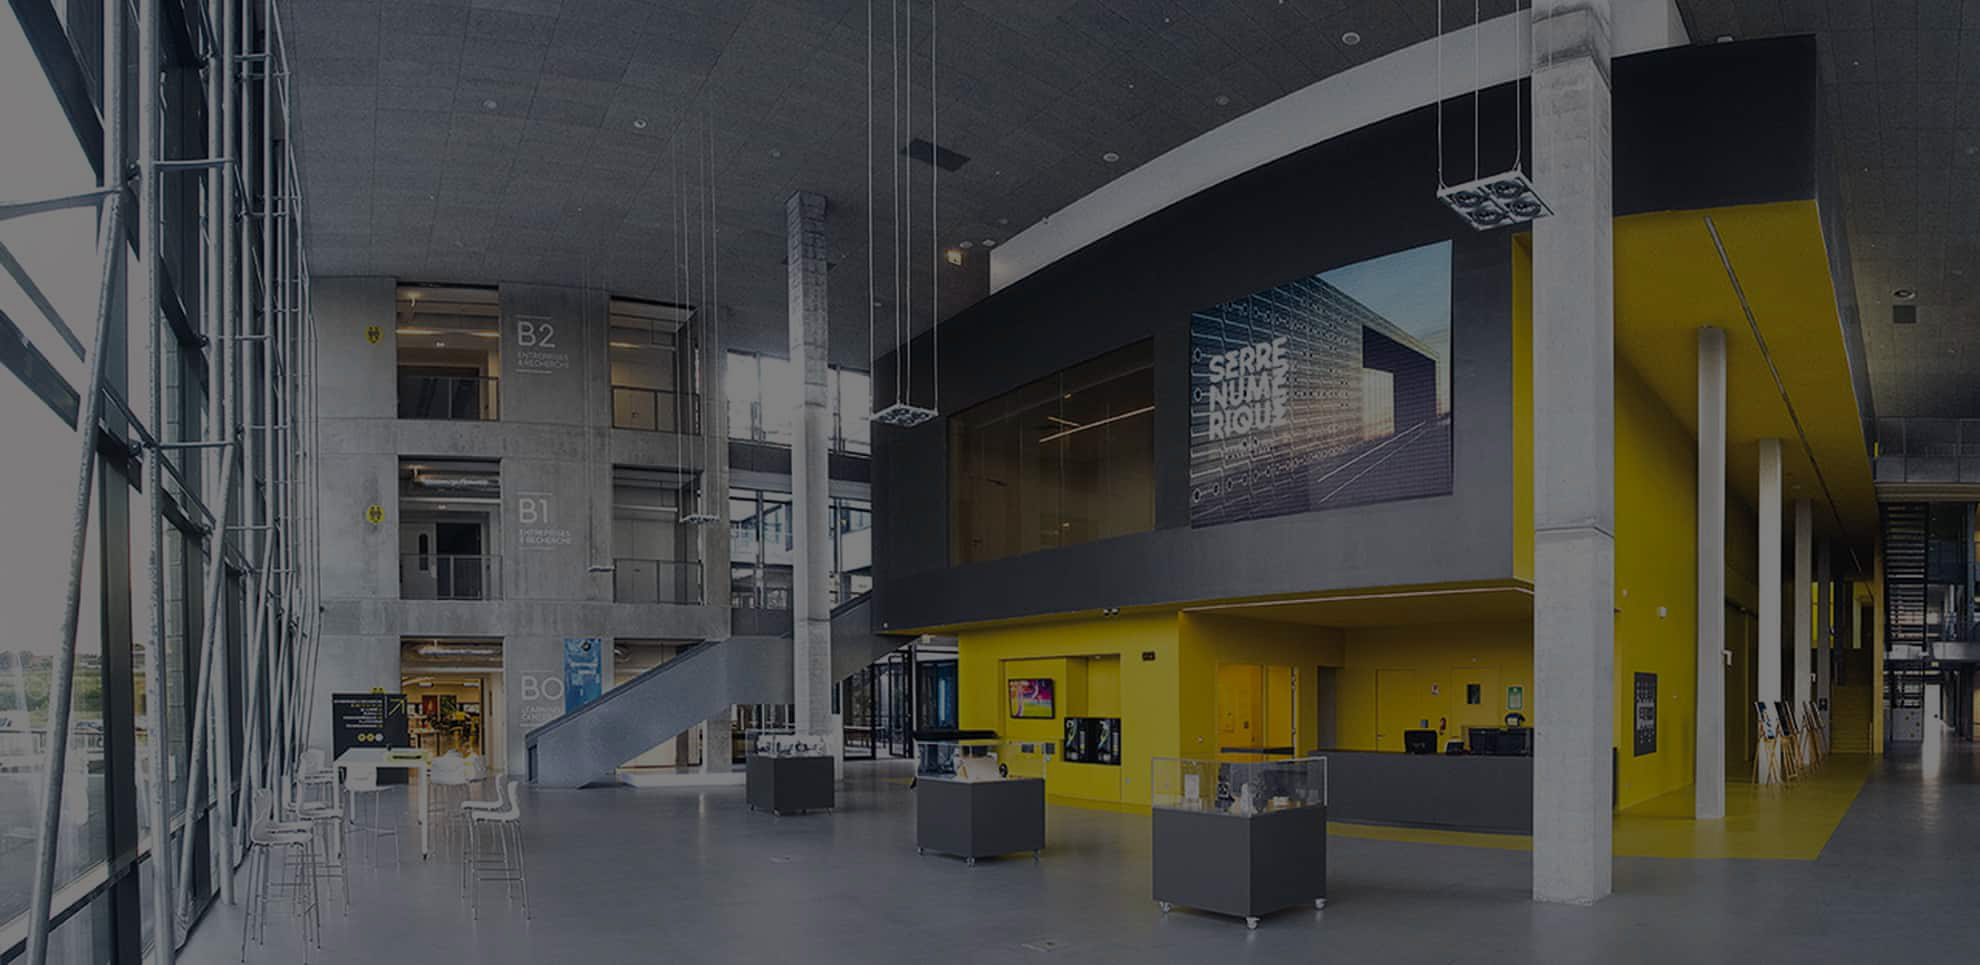
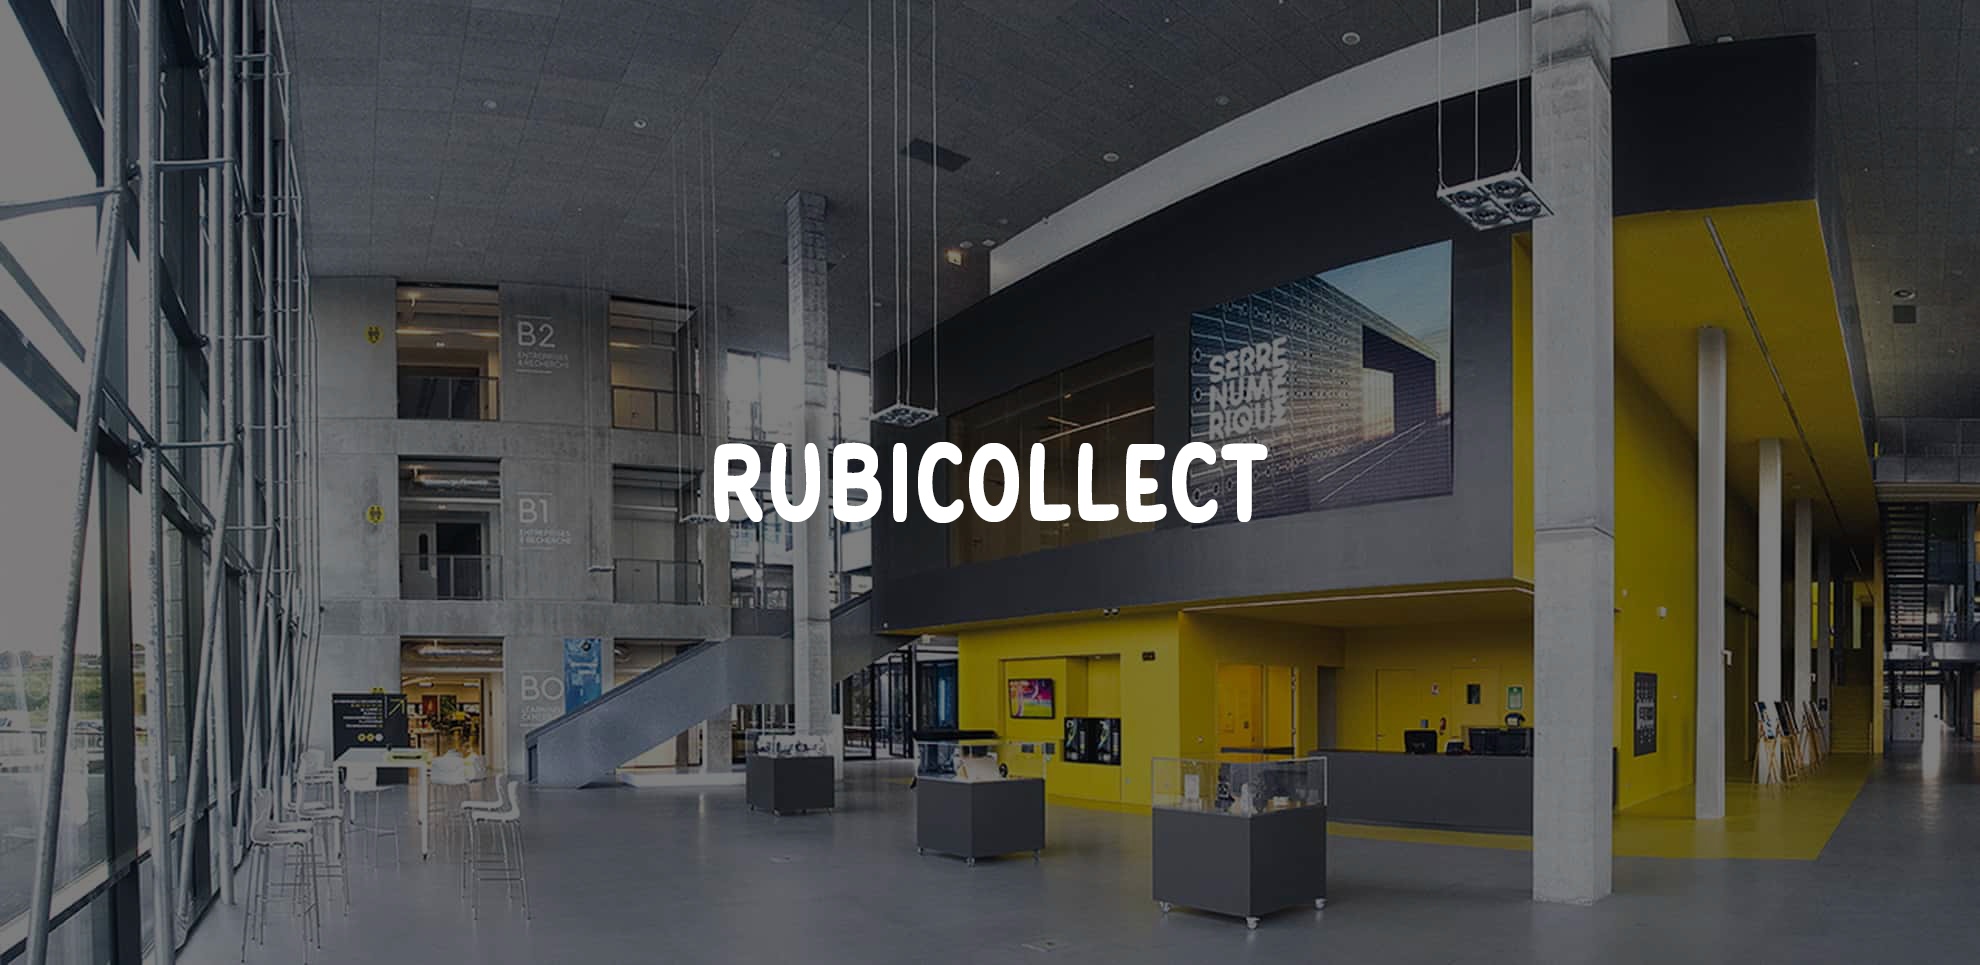
aaaaa

Changed region(s): [[0.3389, 0.4352, 0.647, 0.5596]]

diff --git a/Site RubiCollect/Decouvrir.html b/Site RubiCollect/Decouvrir.html
@@ -11,12 +11,10 @@
         <img src="logo_rubicollect.png" id="logo">
         <a href="Decouvrir.html">Découvrir</a>
         <a href="Agir.html">Agir</a>
-        <a href="#comprendre">Comprendre</a>
 </div>
 
-<div>
-    <h1 id="rubicollect">Rubicollect</h1>
-    <img src = "rubika.png" width ="1905" height="750">
+    
+<div class="rubicollect"><img src = "rubika.png" alt="image rubika">
 </div>
 
 <div id = "expli_rubicollect">
@@ -53,41 +51,16 @@
     </p>
 </div>
 
-<h1 id="causes_texte">Les causes que nous soutenons:</h1>
-<img src="cadre.png" width ="1905" height="325">
-    <table>
-        <td id="logo_msf">
-            <a href="https://donate.msf-azg.be/eoy25gads/~mon-don?utm_source=performancemax&utm_medium=cpc&utm_content=eoy25gads/~mon-don_equivalence_mkt_v1_square-singlepost-chirugie&etid=17618283880&utm_term=&utm_campaign=EVO_2025_10_cpc_performancemax_msf_main_don_conv_cbo_daily_b2c_eoy-25_cpa_0_RAN_FR&utm_source=adwords&utm_medium=ppc&hsa_acc=6161340983&hsa_cam=23205545669&hsa_grp=&hsa_ad=&hsa_src=x&hsa_tgt=&hsa_kw=&hsa_mt=&hsa_net=adwords&hsa_ver=3&gad_source=1&gad_campaignid=23200329819&gbraid=0AAAAADqNXD-ABwMaIJfU9CxpwvsfsY1QY&gclid=Cj0KCQiAiqDJBhCXARIsABk2kSl1wHPrrFaL8e8X0ofp5m3_Bw8xbGM4RVr7UZiP5ee3KgoEJux9WC4aAh5CEALw_wcB"><img src="MSF.png" width="280" height="180"></a>
-        </td>
-        <td id="logo_sea">
-            <a href="https://seashepherd.fr/"><img src="sea.png" width="280" height="180"></a>
-        </td>
-        <td id="logo_sos">
-            <a href="https://don.sosmediterranee.org/arya/~mon-don?ns_ira_cr_arg=IyMjIyMjIyMjIyMjIyMjIyMjIyMjIyMjIyMjIyMjIyMnc%2FiRRwaPvnq6JORjLmq4b4PNvV10ZntYCDqzfOoW0eOx9HFhZQIkQVF12megs3dGhjwOtgk7ScC6sT7nlL5W%2BTsQMnIKBREHzJVTY8XJIFBTv%2B%2BMT31gWPaKyTqbrRuxHOjrnAurbO572ZOhI2FE%2FDs5%2FKFn6mY5dBA6NQ%2FDuhSz0MzJTptCAeI9JhNg4K9RRork77mQM7c%2FU6QjDkvTjy%2BGoMOmeOTZVfaaBdcG4pzgLd0vg9k5FZVTaFL4dos2egEz63ncYxxhAJAJT6yBSusDOH%2FdWgPMYM%2FtsBAOnz4K219i0CLVqmF1CUFsVEC0xUXE1cErqDMQo1y0DHCmDTT%2FT4VEZ17L5hPxsTaOCzIGJbZwG47RsRdi5pxpqyjQ6WnfL8rw6bfaA45WTNB%2BWDKzET4V7%2BXmQ7CYBHf87g%3D%3D&utm_source=google&utm_medium=cpa&utm_campaign=25GAD&gad_source=1&gad_campaignid=22364930806&gbraid=0AAAAACLVWNfLrX6jC-aAprnsfP_Rxu7Yh&gclid=Cj0KCQiAiqDJBhCXARIsABk2kSn6-WLflAI3q-dLHzTzcHJsC60As75Mj5ItykD8J2e6m1PbZd4Nn6caAqb2EALw_wcB&_cv=1"><img src="sos.png" width="280" height="180"></a>
-        </td>
-        <td id="logo_fondation">
-            <a href="https://www.fondationpourlelogement.fr/"><img src="fondation.png" width="280" height="180"></a>
-        </td>
-    </table>
+<div class="causes">
+    <img src="cadre.png">
 </div>
 
-<div id="BottomBar">
+<div class="BottomBar">
     <img src="BottomBar.png">
-</div>
-<div id="BottomBarTextSoutenir">
-    <h1>Soutenir</h1>
 </div>
 
 <div id="DonBottomBar">
     <button style="height:60px;width:100px">Faire un don</button>
 </div>
-<div id="TextBottomBarRejoindre">
-    <h1>Contact</h1> 
-</div>
-
-<div id="TextBottomBarEvent">
-    <h1>Laissez un avis</h1>
-</div>
-
 </body>
 </html>

diff --git a/Site RubiCollect/stylesheet.css b/Site RubiCollect/stylesheet.css
@@ -31,12 +31,6 @@ a:hover{
     z-index: 10;
 }
 
-#BottomBar{
-    overflow: hidden;
-    background-color: #465FAF;
-    height: 500px;
-}
-
 #BottomBarTextSoutenir{
     position: absolute;
     top: 2350px;
@@ -66,13 +60,22 @@ a:hover{
     src: url(Pinecone_MVB.otf);
 }
 
-#rubicollect{
-    font-family: "Pinecone_MVB";
-    color: white;
-    font-size: 82px;
-    position: absolute;
-    left: 650px;
-    top:350px;
+.rubicollect img{
+    width: 100%;
+    height: 800px;
+    display: block;
+}
+
+.causes img{
+    width: 100%;
+    height: 1000px;
+    display: block;
+}
+
+.BottomBar img{
+    width: 100%;
+    height: 800px;
+    display: block;
 }
 
 h1{
@@ -92,54 +95,29 @@ p{
     text-align: left;    
 }
 
-#causes_texte{
-    position: absolute;
-    left: 425px;
-    top:2025px;
-}
-
-#text_agir{
+.agir{
     text-align: left;
     margin-left: 25%;
     max-width: 1000px;
+    position: relative;
 }
 
-#img_agir{
+.agir img{
     text-align: center;
+    width: 1200px;
+    height: 400px;
 }
 
-#logo_msf{
+.text_agir{
     position: absolute;
-    left: 425px;
-    top:2125px;
-}
-
-#logo_sea{
-    position: absolute;
-    left: 625px;
-    top:2125px;
-}
-
-#logo_sos{
-    position: absolute;
-    left: 925px;
-    top:2125px;
-}
-
-#logo_fondation{
-    position: absolute;
-    left: 1225px;
-    top:2125px;
+    left: 60%;
+    top: 50%;
+    transform: translate(-50%, -50%);
+    color: white;
 }
 
 button{
     background-color: #C4DEA8;
     font-family: "Pinecone_MVB";
     color: #465FAF;
-}
-
-#DonBottomBar{
-    position: absolute;
-    top:2750px;
-    left:40px;
 }

diff --git a/Site RubiCollect/Agir.html b/Site RubiCollect/Agir.html
@@ -11,33 +11,34 @@
         <img src="logo_rubicollect.png" id="logo">
         <a href="Decouvrir.html">Découvrir</a>
         <a href="Agir.html">Agir</a>
-        <a href="#comprendre">Comprendre</a>
 </div>
-<div id="text_agir">
+<div class="agir">
     <h1>Nous soutenir:</h1>
     <p>Nous soutenir, c'est nous donner les moyens de venir en aide aux plus vulnérables</p>
 </div>
 
-<div id="img_agir">
-    <img src="illus_aide.png" width ="1200" height="350">
+<div class="agir"><img src="illus_aide.png">
+    <h1 class="text_agir">Faire un don</h1>
 </div>
 
-<div id="text_agir">
+<div class="agir">
     <h1>Nous rejoindre:</h1>
     <p>RubiCollect rassemble plusieurs élèves venant de tout Rubika, tous motivé à aider son prochain grâce aux compétences acquises dans le cadre de l'enseignement de l'établissement</p>
 </div>
 
-<div id="img_agir">
-    <img src="illus_eleves.png" width ="1200" height="350">
+<div class="agir"><img src="illus_eleves.png">
 </div>
 
-<div id="text_agir">
+<div class="agir">
     <h1>Participer :</h1>
     <p>Les événements de collecte solidaire sont cruciales pour atteindre nos objectifs</p>
 </div>
 
-<div id="img_agir">
-    <img src="illu_event.png" width ="1200" height="350"
+<div class="agir"><img src="illu_event.png">
 </div>
+<div class="BottomBar">
+    <img src="BottomBar.png">
+</div>
+
 </body>
 </html>
